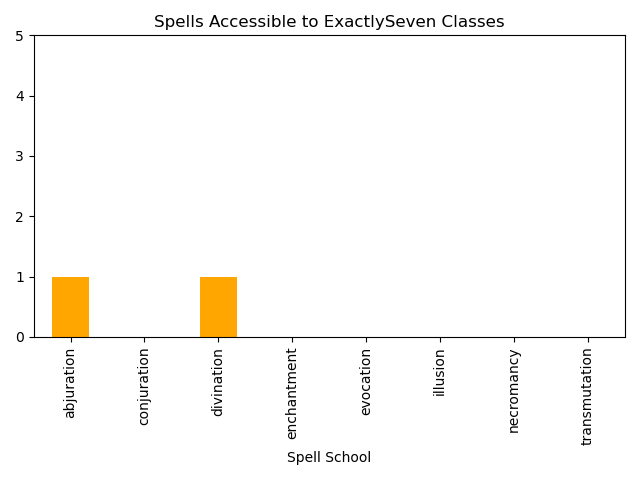
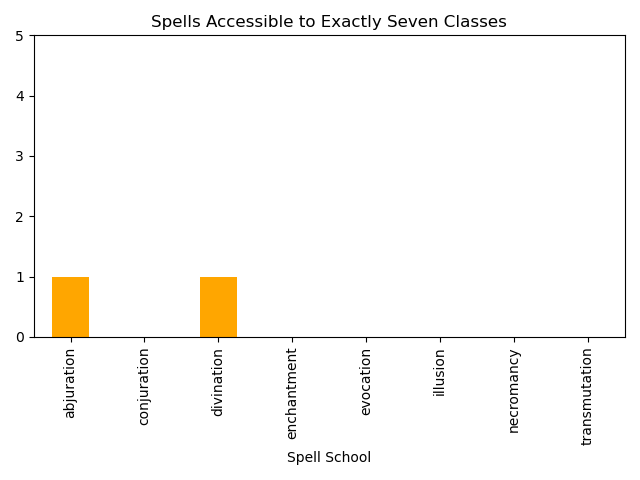
Added code to README; fixed a couple graphs

Changed region(s): [[0.2188, 0.0312, 0.8125, 0.0625]]

diff --git a/README.md b/README.md
@@ -19,6 +19,232 @@ It is able to gather subclass information from the API, but these lines of code 
 
 After pulling data from the API, my code filters it into some smaller dataframes, which it sorts and graphs. I've had to add a few lines of code here and there to ensure that data categories with a zero-count total still show up on the graphs (i.e. paladins don't have any spells above level 5). My code then recombines these dataframes into a basis for a large comparative graph. It does all of this several times using different criteria and exports the graphs as pngs.
 
+This project uses data from a [Dungeons & Dragons API](https://www.dnd5eapi.co/) to create visualizations of some of the different patterns in spell distribution within the game system, specifically its 5th edition (2014). 
+
+D&D is the most popular tabletop roleplaying game (TTRPG) on the market. This is due in part to its Open Gaming License, which gives third parties blanket permission to create their own game supplements based on the D&D's fundamental mechanics. These fundamental mechanics are detailed in something called the System Reference[System Reference Document](https://www.dndbeyond.com/srd), or SRD. 
+
+This project looks specifically at the spells portion of that content. There are 319 spells in the SRD, each with its own set of rules, including which of the eight included spellcasting class(es) (i.e. wizard, cleric, druid, etc.) can cast that spell; what school of magic (i.e. transmutation, illusion, necromancy, etc.) the spell belongs to; and how powerful the spell is, i.e. its numbered level (0-9). It uses visualizations to explore several questions:
+<br>
+
+### 1. Do some classes have access to more high-level spells than others?
+
+### 2. Are some schools of magic concentrated among specific classes?
+
+### 3. Is there a relationship between spell level and school of magic?
+
+<br>
+***
+
+## How does the project work?
+
+It uses the [5e API](https://www.dnd5eapi.co/) to pull the following data for each of the 319 spells: spell name, spell level, spell school, class, and subclass. It assigns the correct class to each subclass and the subclass "all" to each class. With the help of the pandas library, these data are then assembled into a dataframe.
+
+```
+df = pd.DataFrame({
+    'Spell Name' : spellname,
+    'Spell Level': spelllevel,
+    'Spell School' : spellschool,
+    'Class' : spellclass,
+    'Subclass' : spellsubclass
+})
+```
+<br>
+In the SRD, each class has only one subclass. This was always going to make subclass data only moderately useful, but mid-project, it was discovered that subclass data in this API was unreliable: every single spell was designated "lore," the SRD bard subclass. This is due to the combination of a bard feature called "Magical Secrets," which gives bards limited access to every spell in the game, plus an error, which is attributing this only to the lore subclass rather than the bard class as a whole. This does preserve the integrity of the bard data—-spells tagged "bard" are all on the core bard spell list--but makes the subclass data less useful for this project's purposes. 
+
+As such, the code filters the data to include only the data for the classes' spell lists:
+
+```
+classSpellLists = df[df['Subclass'] == 'all']
+
+```
+
+This forms the basis for the rest of the data manipulation.
+
+At this point, the code also exports a csv file containing all the spell information minus subclass data:
+```
+classSpellLists.to_csv('class_spell_lists.csv')
+```
+
+Next, the code pulls spell data pertaining to the relationship between class and school of magic. 
+
+First, it pulls only the rows containing abjuration spells, then only the rows containing conjuration spells, etc., repeating this for each school of magic. Then it gathers the rest of the data for those rows, counts how many rows there are for each class, and sorts those data, yielding a dataframe for each school of magic that can be used to create a graph of how many spells of each school each class has:
+
+```
+abjuration = classSpellLists['Spell School'] == 'abjuration'
+abjurationClassSchool = classSpellLists[abjuration].value_counts('Class').sort_index()
+```
+
+It adds null rows where no data exists (rangers have no necromancy spells, and paladins have no illusion spells--this was determined through evaluation of errors in a first pass at this code without the null rows):
+
+```
+necromancyClassSchool['ranger'] = 0
+illusionClassSchool['paladin'] = 0
+```
+
+It graphs the data using code like this, then saves the graph as a .png file:
+
+```
+abjurationGraph = abjurationClassSchool.plot(kind = "bar", title = "Number of Abjuration Spells", color = "#006aff")
+
+x = abjurationGraph.get_figure()
+fig = x.get_figure()
+fig.tight_layout()
+fig.savefig('abjuration_graph.png')
+```
+
+Then, to create a dataframe that re-combines all of these data into the basis for a multiple bar graph setting the eight graphs alongside each other, the function ```pd.merge``` is used:
+
+```
+combined_df = pd.merge(abjurationClassSchool, conjurationClassSchool, on='Class')
+combined_df = pd.merge(combined_df, divinationClassSchool, on='Class')
+combined_df.columns = ['Abjuration', 'Conjuration', 'Divination']
+combined_df = pd.merge(combined_df, enchantmentClassSchool, on='Class')
+combined_df.columns = ['Abjuration', 'Conjuration', 'Divination', 'Enchantment']
+combined_df = pd.merge(combined_df, evocationClassSchool, on='Class')
+combined_df.columns = ['Abjuration', 'Conjuration', 'Divination', 'Enchantment', 'Evocation']
+combined_df = pd.merge(combined_df, illusionClassSchool, on='Class')
+combined_df.columns = ['Abjuration', 'Conjuration', 'Divination', 'Enchantment', 'Evocation', 'Illusion']
+combined_df = pd.merge(combined_df, necromancyClassSchool, on='Class')
+combined_df.columns = ['Abjuration', 'Conjuration', 'Divination', 'Enchantment', 'Evocation', 'Illusion', 'Necromancy']
+combined_df = pd.merge(combined_df, transmutationClassSchool, on='Class')
+combined_df.columns = ['Abjuration', 'Conjuration', 'Divination', 'Enchantment', 'Evocation', 'Illusion', 'Necromancy', 'Transmutation']
+
+combinedGraph = combined_df.plot(kind = "bar", figsize = (15, 5), width = 0.8, title = "For each class, which schools of magic are most common?", color = ["#006aff", "#c749d7", "#ff3d94", "#ff6e55", "#e3a32e", "#adcd4c","#69eb98","#00fff0"])
+plt.ylabel('Number of Spells')
+legend = plt.legend(bbox_to_anchor=(1.02, 1), loc='upper left', prop={'size': 11})
+legend.set_title("School of Magic")
+
+x = combinedGraph.get_figure()
+fig = x.get_figure()
+fig.tight_layout()
+fig.savefig('combined_graph.png')
+```
+
+Next, the code pulls the spell level data, counts the number of instances of each level, and sorts this information into a dataframe useable for creating a bar graph.
+
+```
+spellcounts = classSpellLists['Spell Level'].value_counts()
+sortedspellcounts = spellcounts.sort_index()
+
+levelGraph = sortedspellcounts.plot(kind = "bar", title = "Number of Spells of Each Level")
+```
+It then saves the bar graph. Similar code is used each time a graph is saved, so that code will not be duplicated here.
+
+Through a similar process, the code pulls and sorts the number of spells that exist in each spell school.
+
+```
+spellcountsschool = classSpellLists['Spell School'].value_counts()
+sortedspellcountsschool = spellcountsschool.sort_index()
+
+schoolGraph = sortedspellcountsschool.plot(kind = "bar", title = "Number of Spells Within Each Magic School", color = "purple")
+```
+
+Next, the code pulls data pertaining to the relationship between class and spell level. 
+
+First, it pulls only the rows containing bard spells, then only the rows containing cleric spells, etc., repeating this for each school of magic. Then it gathers the rest of the data for those rows, counts how many rows there are for each spell level, and sorts those data, yielding a dataframe for each school of magic that can be used to create a graph of how many spells of each level are on the bard spell list. 
+
+```
+bard = classSpellLists['Class'] == 'bard'
+bardSpells = classSpellLists[bard].value_counts('Spell Level').sort_index()
+
+bardGraph = bardSpells.plot(kind = "bar", title = "Bard Spells by Level", color = "#0eff58")
+plt.ylim(0, 25) 
+```
+(It also sets a y axis limit that avoids the y-axis labels from being broken down into 0.5s.)
+
+It does the same for the other classes, adding in null rows where no data exists:
+
+```
+paladinSpells = classSpellLists[paladin].value_counts('Spell Level').sort_index()
+paladinSpells[int(0)] = 0
+paladinSpells[int(6)] = 0
+paladinSpells[int(7)] = 0
+paladinSpells[int(8)] = 0
+paladinSpells[int(9)] = 0
+paladinSpells = paladinSpells.sort_index()
+
+paladinGraph = paladinSpells.plot(kind = "bar", title = "Paladin Spells by Level", color = "#ff752d")
+```
+
+To create a dataframe that re-combines all of these data into the basis for a multiple bar graph setting the eight graphs alongside each other, the function ```pd.merge``` is again used. The combined data is then plotted to create a multiple bar graph. The code will not be repeated here for space reasons. 
+
+
+
+
+
+
+
+
+Next, the code pulls data pertaining to the relationship between spell level and spell school. First, it pulls only the rows containing cantrips, then only the rows containing 1st-level spells, etc., repeating this for each spell level. Then it gathers the rest of the data for those rows, counts how many rows there are for each spell school, and sorts those data, yielding a dataframe for each school of magic that can be used to create graphs of how many spells of each school exist at each spell level.
+
+```
+cantrip = classSpellLists['Spell Level'] == 0
+cantripSchools = classSpellLists[cantrip].value_counts('Spell School').sort_index()
+```
+Again,  to create a dataframe that re-combines all of these data into the basis for a multiple bar graph setting the eight graphs alongside each other, the function ```pd.merge``` is used.
+
+
+Next the code pulls data on how many classes can cast each spell.The original dataframe contains one row for each spell for each class, so to determine how many classes can cast each spell, the code counts how many times each spell name occurs: 
+
+```
+numberOfClasses = classSpellLists.value_counts('Spell Name')
+```
+
+...yielding the following data:
+
+```
+> Spell Name
+> Detect Magic         7
+> Dispel Magic         7
+> Hold Person          6
+> Locate Creature      6
+> Locate Object        6
+>                     ..
+> Meld Into Stone      1
+> Maze                 1
+> Mass Healing Word    1
+> Mass Heal            1
+> Acid Arrow           1
+> Name: count, Length: 319, dtype: int6
+```
+
+...which is then itself counted (for the number of spells available to exactly seven classes, etc.) and sorted. 
+
+```
+classesPerSpell = numberOfClasses.value_counts().sort_index()
+```
+
+In order to determine how many spells of each school are available to how many classes, the code then re-merges the numberOfClasses list with the spell name data and drops superfluous information to leave a dataframe containing spell name, the classes count for each spell, and the school of magic for each spell.
+
+```
+combined_df = pd.merge(numberOfClasses, classSpellLists, on='Spell Name')
+combined_df = combined_df.drop_duplicates(subset=['Spell Name'])
+combined_df = combined_df.drop(columns = ['Class', 'Subclass', 'Spell Level'])
+```
+
+It then pulls only the spells available to exactly one class and counts how many there are of each spell school, yielding a dataframe that can be used to create a graph of how many of the spells available to exactly one class belong to each school of magic. 
+
+```
+oneclass = combined_df['count'] == 1
+oneSchool = combined_df[oneclass].value_counts('Spell School').sort_index()
+
+oneSchoolPlot = oneSchool.plot(kind = "bar", title = "Spells Accessible to Exactly One Class", color = "#005177")
+```
+It does the same for the rest of the data, again adding in null rows where no data exists (and setting a y-limit on the graph to avoid half-integer labels):
+
+```
+fiveSchools = combined_df[fiveclasses].value_counts('Spell School').sort_index()
+fiveSchools['illusion'] = 0
+fiveSchools['necromancy'] = 0
+fiveSchools = fiveSchools.sort_index()
+
+fiveSchoolsPlot = fiveSchools.plot(kind = "bar", title = "Spells Accessible to Exactly Five Classes", color = "#f95882")
+plt.ylim(0, 5) 
+```
+
+Here, too, to create a dataframe that re-combines all of these data into the basis for a multiple bar graph setting the eight graphs alongside each other, the function ```pd.merge``` is used.
+
+
 **Further Uses:** I'd love to see this work expanded upon. The code could be used as a template for how one might compare other aspects of spells (i.e. range, damage type, casting time, etc.). It could also be used as a starting point for creating a dynamic version of these graphs, where various data types could be selected and unselected to allow for more focused comparisons between a smaller number of categories. Above all, I'd love to see the code used to compare the 2014 and 2024 versions of spells with each other, exploring how the various attribute distributions changed from one version of the game to the next. As the 2024 API is still under construction, this was not yet something I could do.
 
 **Files List** *(to be refined):*